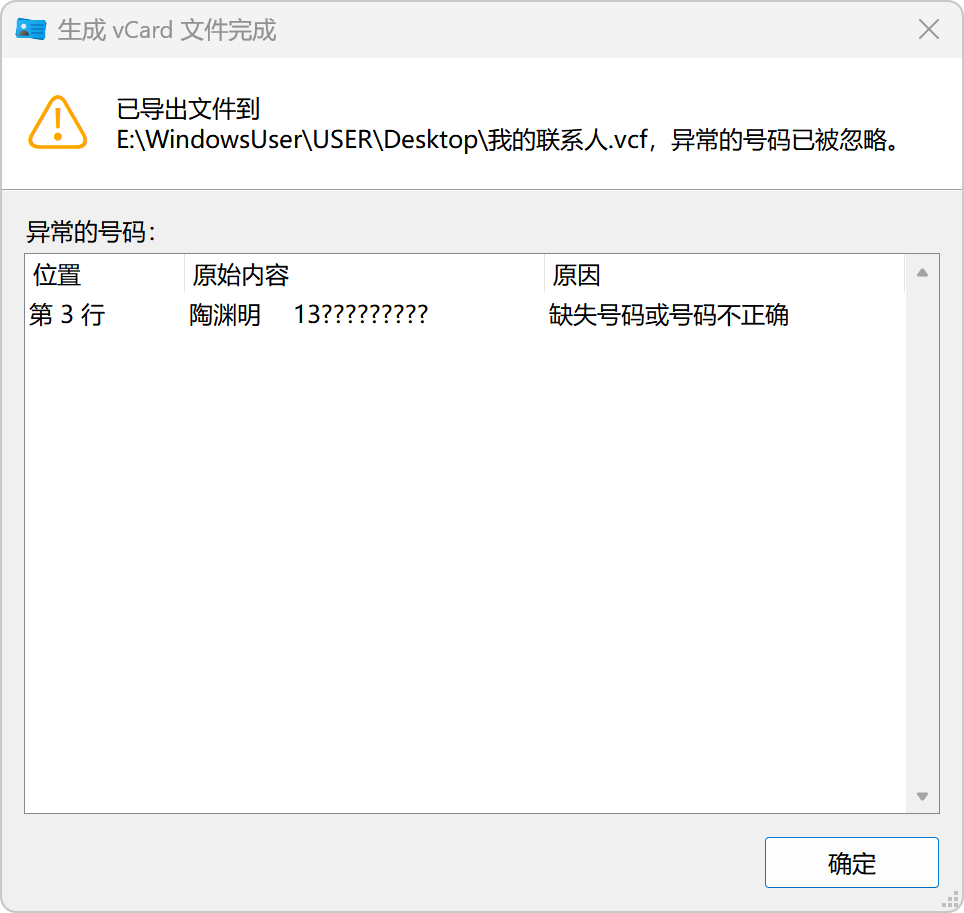
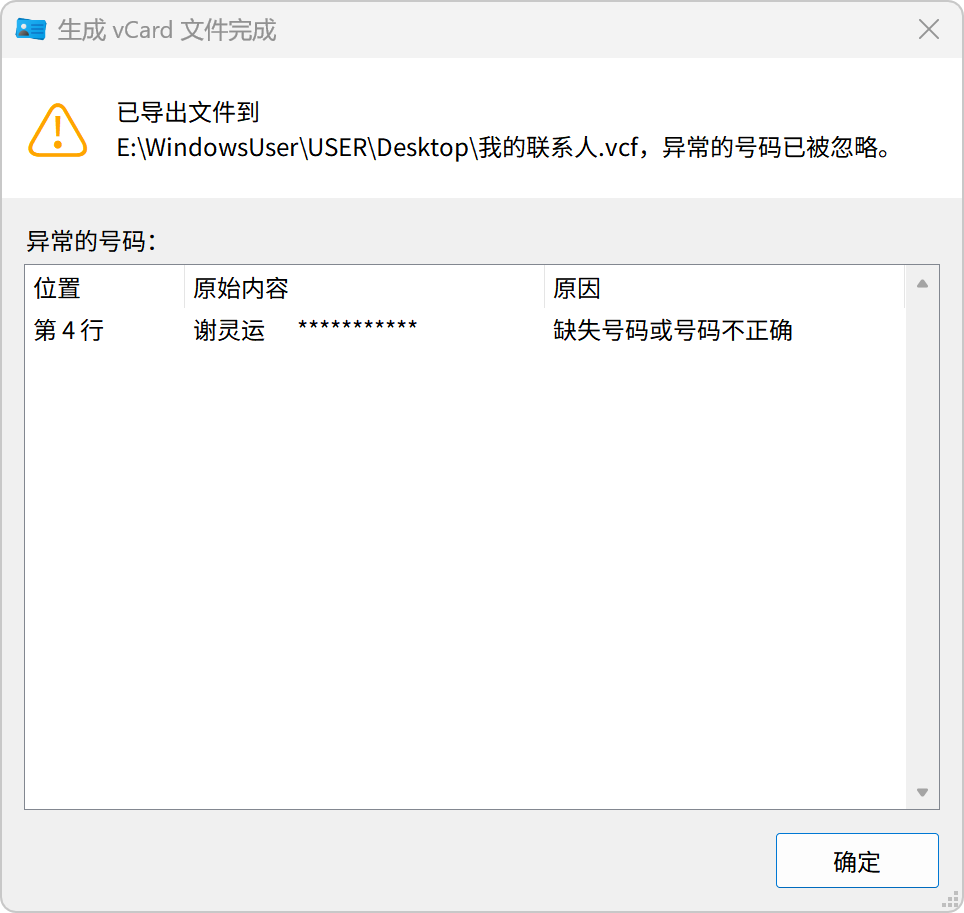
docs: 更新截图

diff --git a/README.md b/README.md
@@ -67,8 +67,8 @@ Built with Python and Tkinter for a native desktop application.
 
 ## Screenshots
 
-<img src="./assets/images/screenshots/main_window.zh-CN.webp" width="451" alt="Main window" />
-<img src="./assets/images/screenshots/invalid_lines_window.zh-CN.webp" width="362" alt="Invalid Lines Window" />
+<img src="./assets/images/screenshots/main_window.webp" width="451" alt="Main window" />
+<img src="./assets/images/screenshots/invalid_lines_window.webp" width="362" alt="Invalid Lines Window" />
 
 ## Download and Installation
 
